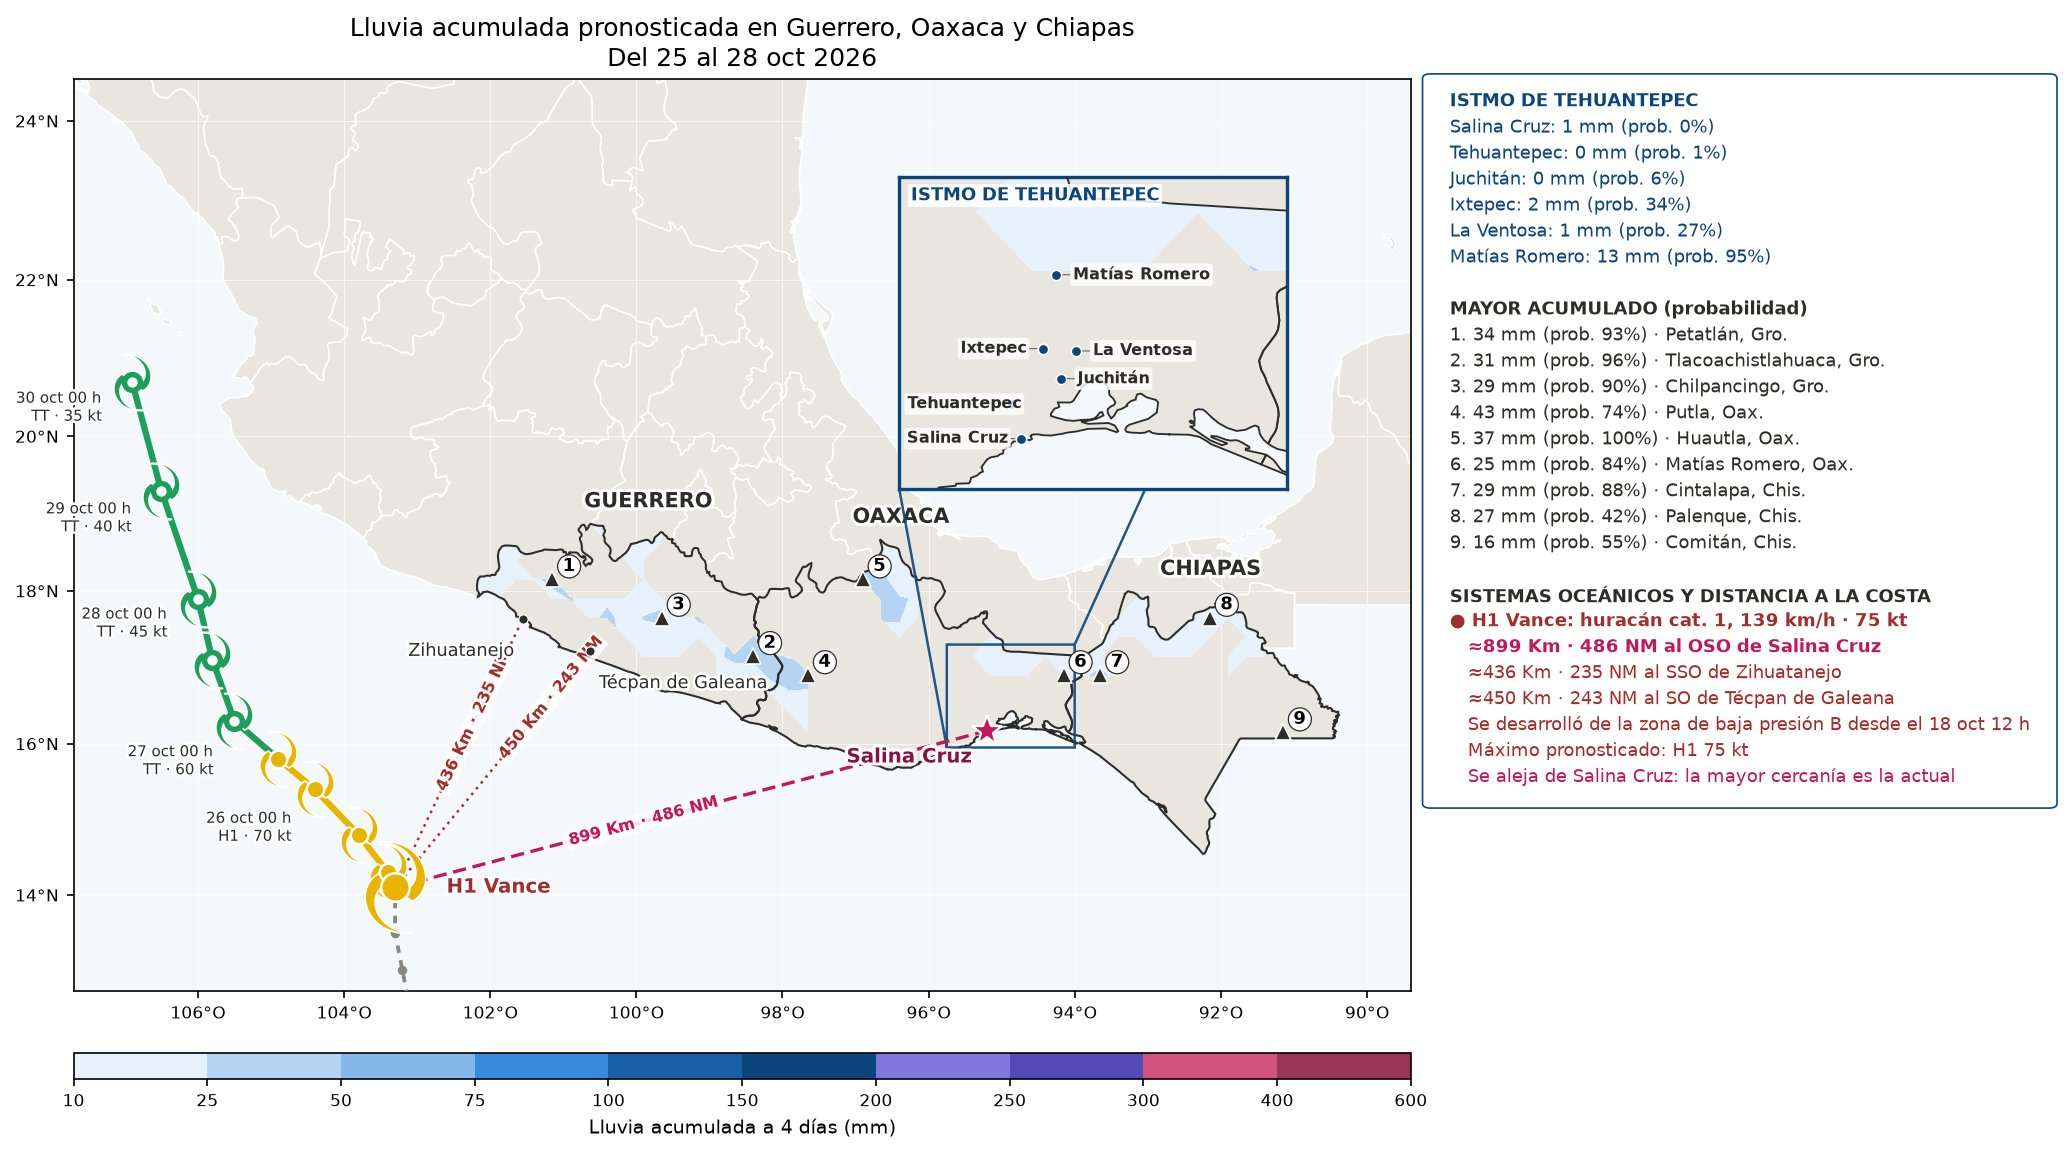
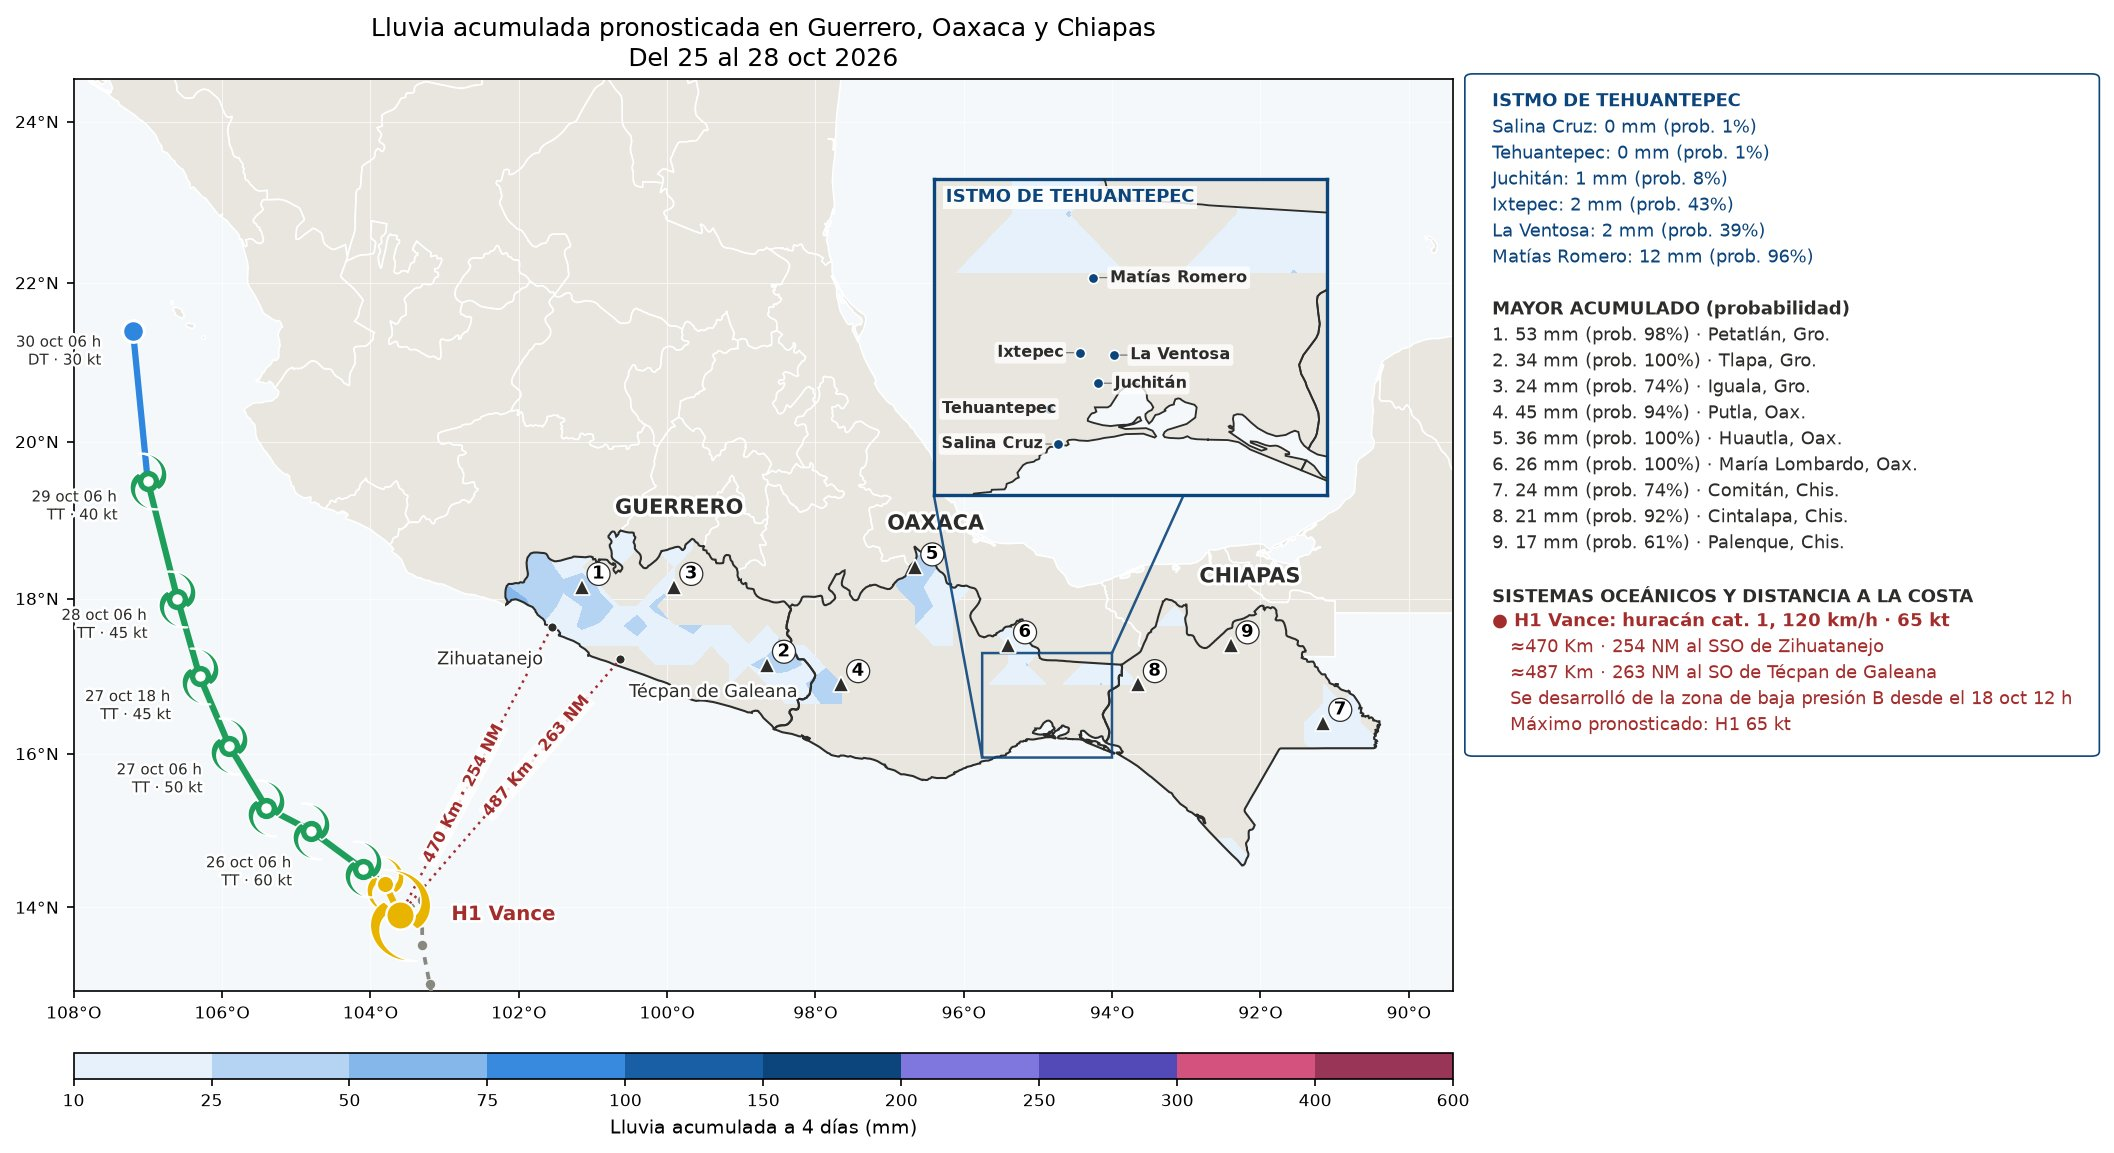
Monitor 25/10 09:10 (mapas nuevos)

diff --git a/index.html b/index.html
@@ -62,7 +62,7 @@ pre{overflow-x:auto;font-size:.75rem;background:var(--bg);padding:10px;border-ra
 <section class="t" id="sec_log"><details><summary>Registro (últimas líneas)</summary><pre id="log"></pre></details></section>
 </main>
 <div id="zoom"><img alt=""></div>
-<script id="datos" type="application/json">{"generado": "2026-10-25T08:37:04.869702", "ultima_revision": "2026-10-25T08:37:04.816243", "decision": "cambios menores en espera", "ultima_imagen": "2026-10-25T06:00:22.403851", "motivo_imagen": "cambios acumulados en 3 h: modelo", "pendientes": ["modelo"], "intervalo_h": 3, "resumen": {"ciclones": {"ep222026": {"nombre": "Vance", "kt": 75, "cat": "H1"}}, "zonas": []}, "historial": [{"fecha": "2026-10-22T23:07:14.363150", "motivo": "cambios acumulados en 3 h: nhc"}, {"fecha": "2026-10-23T03:07:13.407994", "motivo": "CAMBIO SIGNIFICATIVO: Vance cambió de categoría TT → H1"}, {"fecha": "2026-10-23T06:24:52.066568", "motivo": "cambios acumulados en 3 h: modelo"}, {"fecha": "2026-10-23T09:30:17.759506", "motivo": "cambios acumulados en 3 h: nhc, modelo"}, {"fecha": "2026-10-23T14:47:14.365047", "motivo": "CAMBIO SIGNIFICATIVO: Vance cambió de categoría H1 → H2"}, {"fecha": "2026-10-23T18:00:44.711869", "motivo": "cambios acumulados en 3 h: modelo"}, {"fecha": "2026-10-23T21:10:22.420281", "motivo": "cambios acumulados en 3 h: nhc, modelo"}, {"fecha": "2026-10-24T02:47:13.566844", "motivo": "cambios acumulados en 3 h: nhc"}, {"fecha": "2026-10-24T06:01:48.883304", "motivo": "cambios acumulados en 3 h: modelo"}, {"fecha": "2026-10-24T09:10:07.143899", "motivo": "cambios acumulados en 3 h: nhc, modelo"}, {"fecha": "2026-10-24T14:47:15.381799", "motivo": "CAMBIO SIGNIFICATIVO: Vance cambió de categoría H2 → H1"}, {"fecha": "2026-10-24T18:00:35.822546", "motivo": "cambios acumulados en 3 h: modelo"}, {"fecha": "2026-10-24T21:10:14.966105", "motivo": "cambios acumulados en 3 h: nhc, modelo"}, {"fecha": "2026-10-25T02:47:14.208706", "motivo": "cambios acumulados en 3 h: nhc"}, {"fecha": "2026-10-25T06:00:22.403851", "motivo": "cambios acumulados en 3 h: modelo"}], "imagenes": {"lluvia": {"src": "lluvia.jpg?v=202610250600", "fecha": "2026-10-25T06:00:15.935894"}, "viento": {"src": "viento.jpg?v=202610250600", "fecha": "2026-10-25T06:00:20.742386"}}, "log": [], "umbral_av": 50, "umbral_mal": 110}</script>
+<script id="datos" type="application/json">{"generado": "2026-10-25T09:10:07.973736", "ultima_revision": "2026-10-25T09:10:07.924667", "decision": "imágenes generadas", "ultima_imagen": "2026-10-25T09:10:07.924667", "motivo_imagen": "cambios acumulados en 3 h: nhc, modelo", "pendientes": [], "intervalo_h": 3, "resumen": {"ciclones": {"ep222026": {"nombre": "Vance", "kt": 65, "cat": "H1"}}, "zonas": []}, "historial": [{"fecha": "2026-10-23T03:07:13.407994", "motivo": "CAMBIO SIGNIFICATIVO: Vance cambió de categoría TT → H1"}, {"fecha": "2026-10-23T06:24:52.066568", "motivo": "cambios acumulados en 3 h: modelo"}, {"fecha": "2026-10-23T09:30:17.759506", "motivo": "cambios acumulados en 3 h: nhc, modelo"}, {"fecha": "2026-10-23T14:47:14.365047", "motivo": "CAMBIO SIGNIFICATIVO: Vance cambió de categoría H1 → H2"}, {"fecha": "2026-10-23T18:00:44.711869", "motivo": "cambios acumulados en 3 h: modelo"}, {"fecha": "2026-10-23T21:10:22.420281", "motivo": "cambios acumulados en 3 h: nhc, modelo"}, {"fecha": "2026-10-24T02:47:13.566844", "motivo": "cambios acumulados en 3 h: nhc"}, {"fecha": "2026-10-24T06:01:48.883304", "motivo": "cambios acumulados en 3 h: modelo"}, {"fecha": "2026-10-24T09:10:07.143899", "motivo": "cambios acumulados en 3 h: nhc, modelo"}, {"fecha": "2026-10-24T14:47:15.381799", "motivo": "CAMBIO SIGNIFICATIVO: Vance cambió de categoría H2 → H1"}, {"fecha": "2026-10-24T18:00:35.822546", "motivo": "cambios acumulados en 3 h: modelo"}, {"fecha": "2026-10-24T21:10:14.966105", "motivo": "cambios acumulados en 3 h: nhc, modelo"}, {"fecha": "2026-10-25T02:47:14.208706", "motivo": "cambios acumulados en 3 h: nhc"}, {"fecha": "2026-10-25T06:00:22.403851", "motivo": "cambios acumulados en 3 h: modelo"}, {"fecha": "2026-10-25T09:10:07.924667", "motivo": "cambios acumulados en 3 h: nhc, modelo"}], "imagenes": {"lluvia": {"src": "lluvia.jpg?v=202610250910", "fecha": "2026-10-25T09:10:01.476418"}, "viento": {"src": "viento.jpg?v=202610250910", "fecha": "2026-10-25T09:10:05.936793"}}, "log": [], "umbral_av": 50, "umbral_mal": 110}</script>
 <script>
 const D = JSON.parse(document.getElementById("datos").textContent);
 const $ = id => document.getElementById(id);
